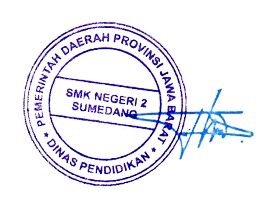
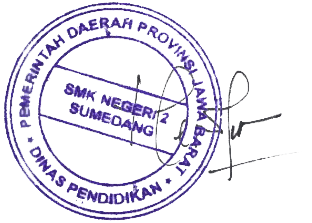
update ttd

diff --git a/index.php b/index.php
@@ -15,7 +15,7 @@ include "header.php";
 	<label style=" font-size:20px;">
 		<?= $hsl['sekolah'] ?> <br>
 		<?php 
-		echo "TAHUN PELAJARAN ".$tahun_ajaran;
+		echo "TAHUN PELAJARAN 2023/2024";
 		?>
 	</label>
 </div>
@@ -103,32 +103,21 @@ include "header.php";
 						</tr> -->
 					</tbody>
 				</table>
-				<?php
-					$no_ujian = base64_encode(base64_encode(htmlspecialchars($data['no_ujian'])));
-					// $noujian = base64_encode("no_ujian");
-				if ($data['status'] == 1) { ?>
-					<form method="post" action="print/" target="_blank">
+				<?php 
+				$no_ujian = base64_encode(base64_encode(htmlspecialchars($data['no_ujian']))); ?>
+				<form method="post" action="print/" target="_blank">
 						<center> 
 						<div class="alert alert-success" role="alert">
-							<b>SELAMAT !</b> Anda dinyatakan <b>L U L U S</b>
-							<br><i>Cetak surat keterangan lulus :</i> &nbsp; &nbsp; <br>
+							
+							<br><i>Cetak surat keterangan :</i> &nbsp; &nbsp; <br>
 							<input type="hidden" name="nomor" value="<?=$no_ujian;?>">
 							<Button class="btn-primary" type="submit" name="submit"><i class="fa fa-print"> </i> &nbsp; CETAK </Button>
-							<a href="print.php?id=<?= htmlspecialchars($data['nisn']);?>" class=" btn btn-primary" type="button" name="download"><i class="fa fa-print"> </i> &nbsp; PRINT </a>
+							<!-- <a href="print.php?id=<?= htmlspecialchars($data['nisn']);?>" class=" btn btn-primary" type="button" name="download"><i class="fa fa-print"> </i> &nbsp; PRINT </a> -->
 							<!-- <a href="download.php?file=<?= htmlspecialchars($data['kls']."_".$data['nama']); ?>_0001.pdf" class=" btn btn-primary" type="button" name="download"><i class="fa fa-print"> </i> &nbsp; DOWNLOAD </a> -->
 						</div> 
 						</center>
 					</form>
-						<center>
-							<a href="./"><button class="btn btn-primary">KEMBALI</button></a>
-						</center> 
-						<br>
-
-				<?php } else {
-					echo '<div class="alert alert-danger" role="alert"><strong>MAAF !</strong> Anda dinyatakan TIDAK LULUS.</div>';
-					echo	'<center><a href="./"><button class="btn btn-primary">KEMBALI</button></a></center> <br>';
-				}
-				?>
+				
 
 			<?php
 			} else {

diff --git a/print/index.php b/print/index.php
@@ -50,7 +50,7 @@ if (isset($_POST['submit'])){
 	
 	.cap {
 		visibility: visible;
-		background-image: url(../img/cap.png) !important;
+		background-image: url(../img/cap-smkn2.png) !important;
 		background-position: 77%;
 		background-repeat: no-repeat;
 		background-size: 22%;
@@ -121,8 +121,8 @@ if (isset($_POST['submit'])){
 					</td>
 					<td width="35%" valign="top">
 							Sumedang, 7 Maret 2024 <br> Kepala Sekolah,
-							<img style="width: 129px; height: 67px" src="../img/<?= $hsl['ttd'] ?>" >
-							<br>
+							<img style="width: 200px; height: 100px" src="../img/<?= $hsl['ttd'] ?>" >
+						
 							
 							<u>
 							<b><?=$kepsek;?></b>
